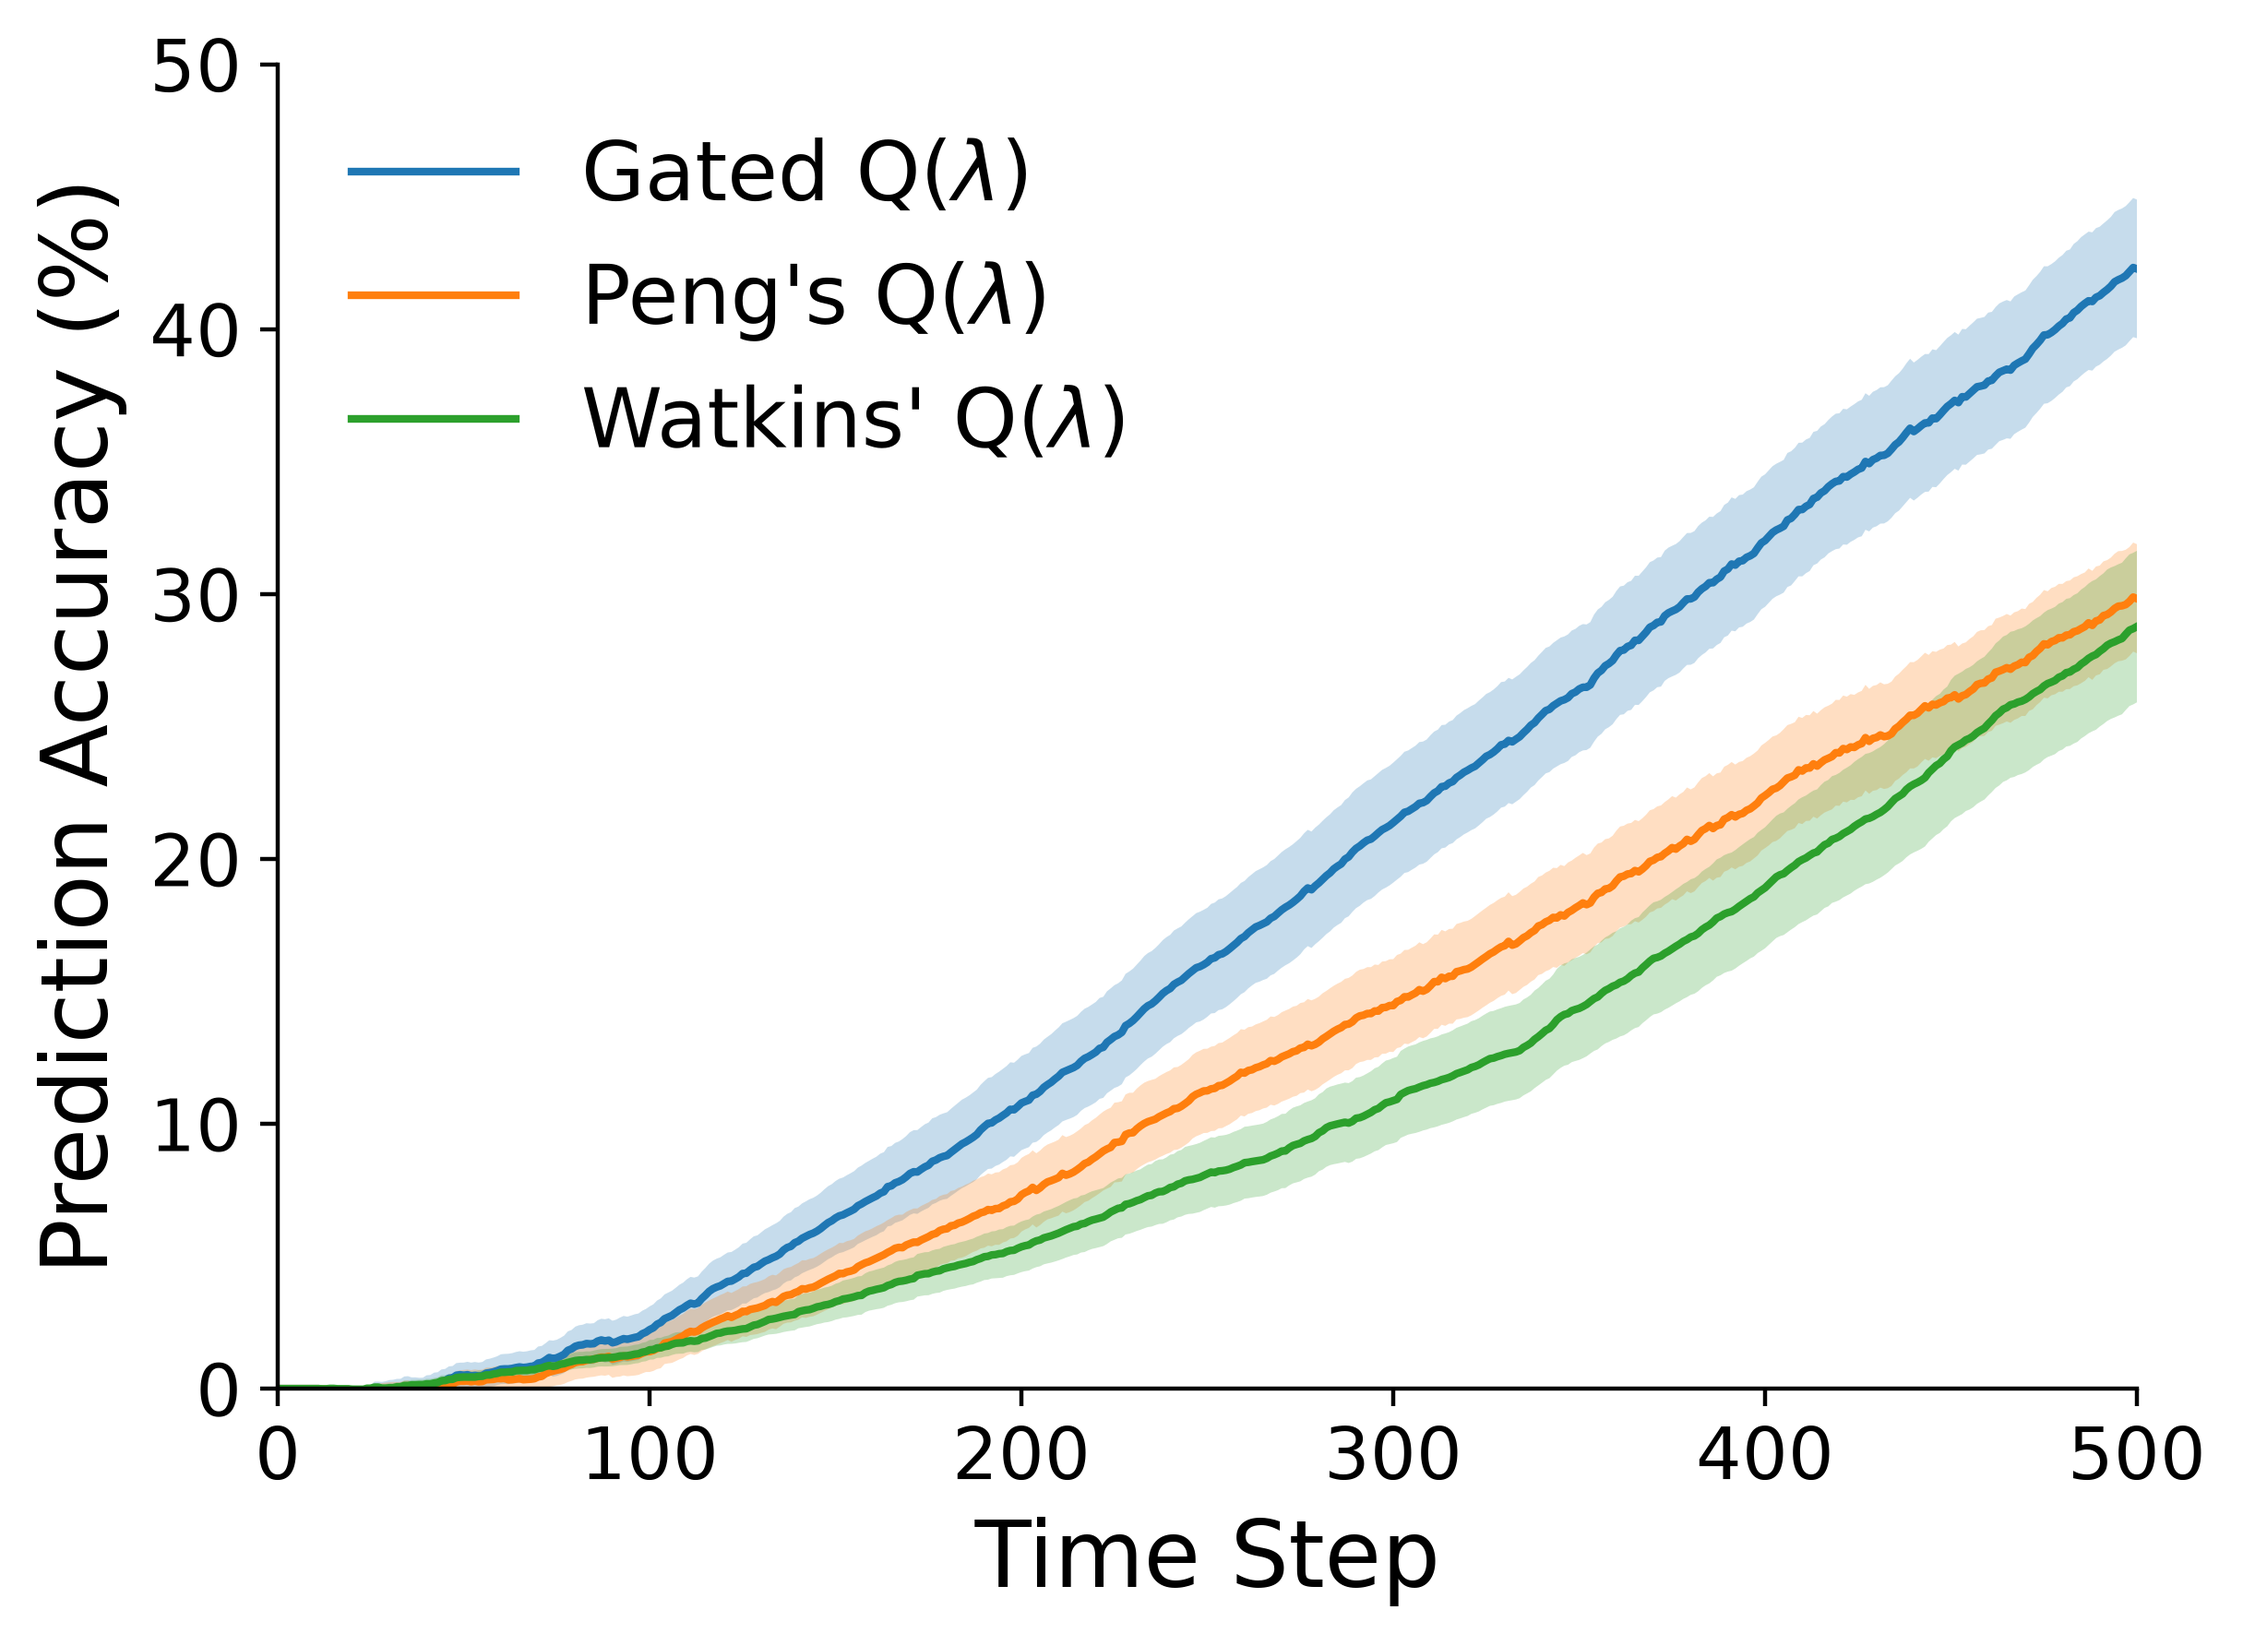
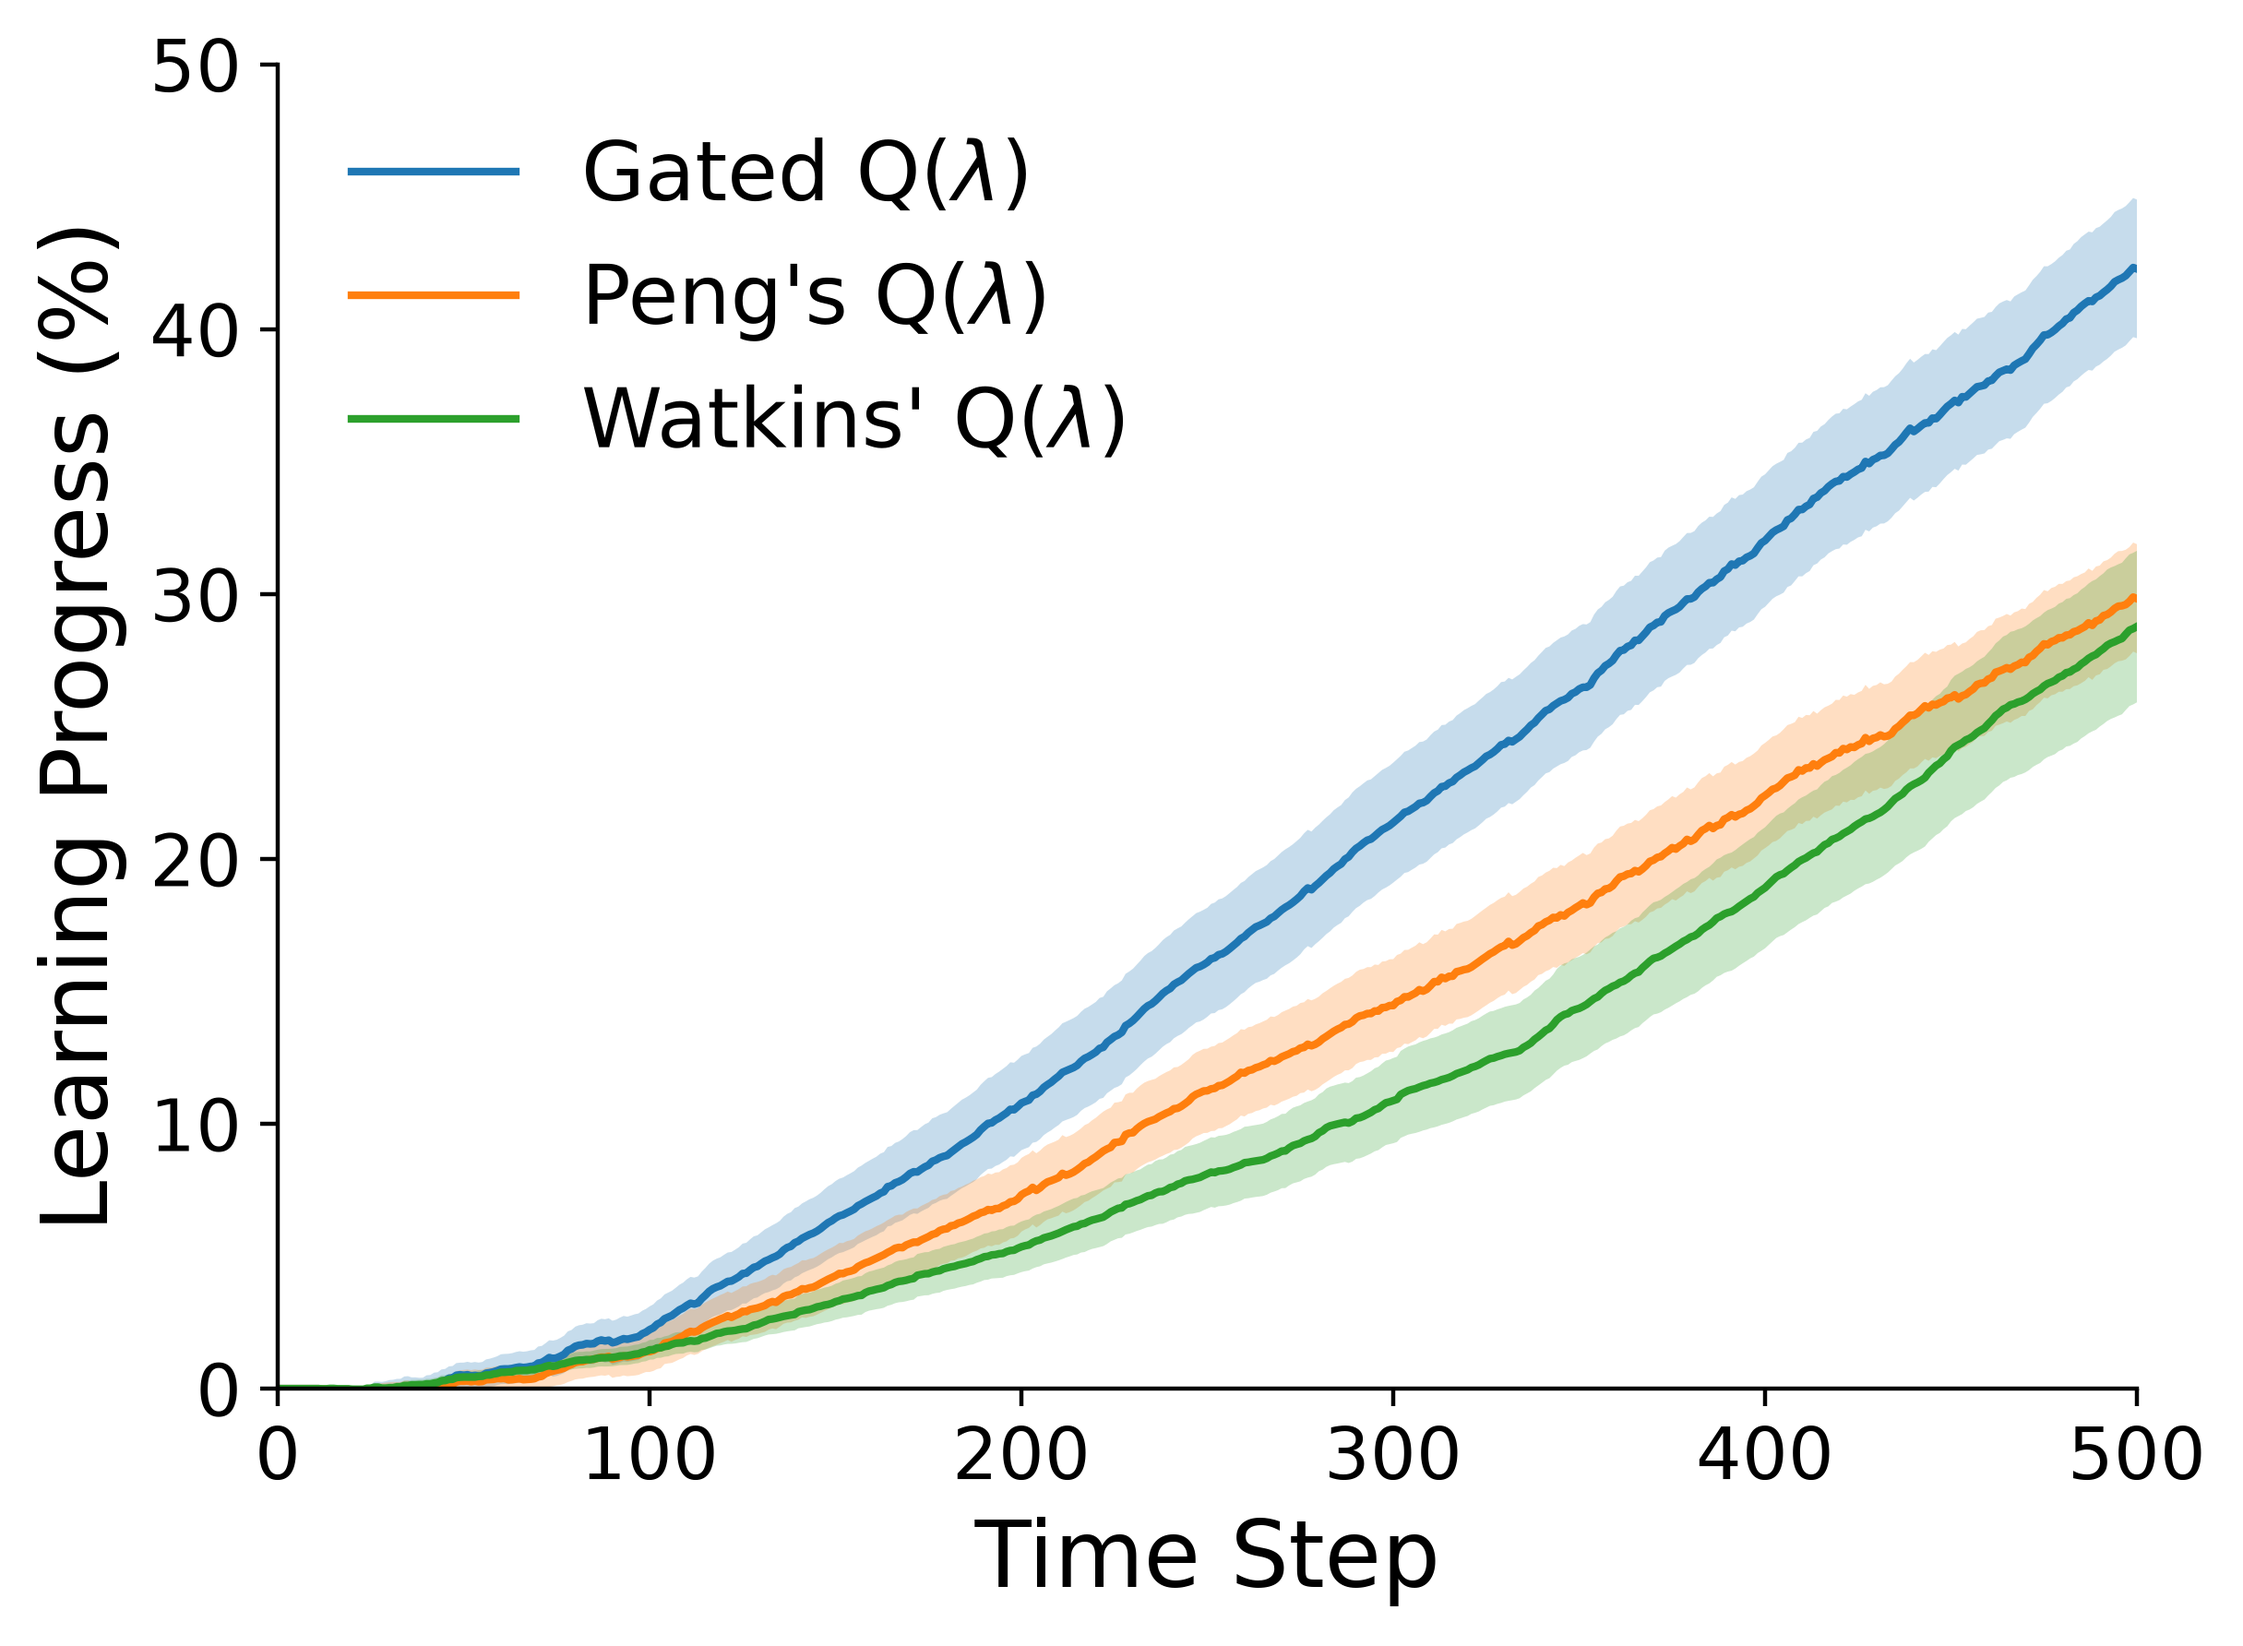
Relabel the learning-curve axis as Learning Progress

Changed region(s): [[0.0, 0.0925, 0.0617, 0.6783], [0.0, 0.7091, 0.0617, 0.7707]]

diff --git a/plot_random_walk.py b/plot_random_walk.py
@@ -158,7 +158,7 @@ def plot_learning_curves(scores: np.ndarray) -> None:
     plt.plot(X, Y, label=r"Watkins' Q($\lambda$)")
 
     plt.xlabel("Time Step")
-    plt.ylabel("Prediction Accuracy (%)")
+    plt.ylabel("Learning Progress (%)")
     plt.xlim([0, NUM_STEPS])
     plt.ylim([0.0, 50.0])
     plt.legend(loc="upper left")
